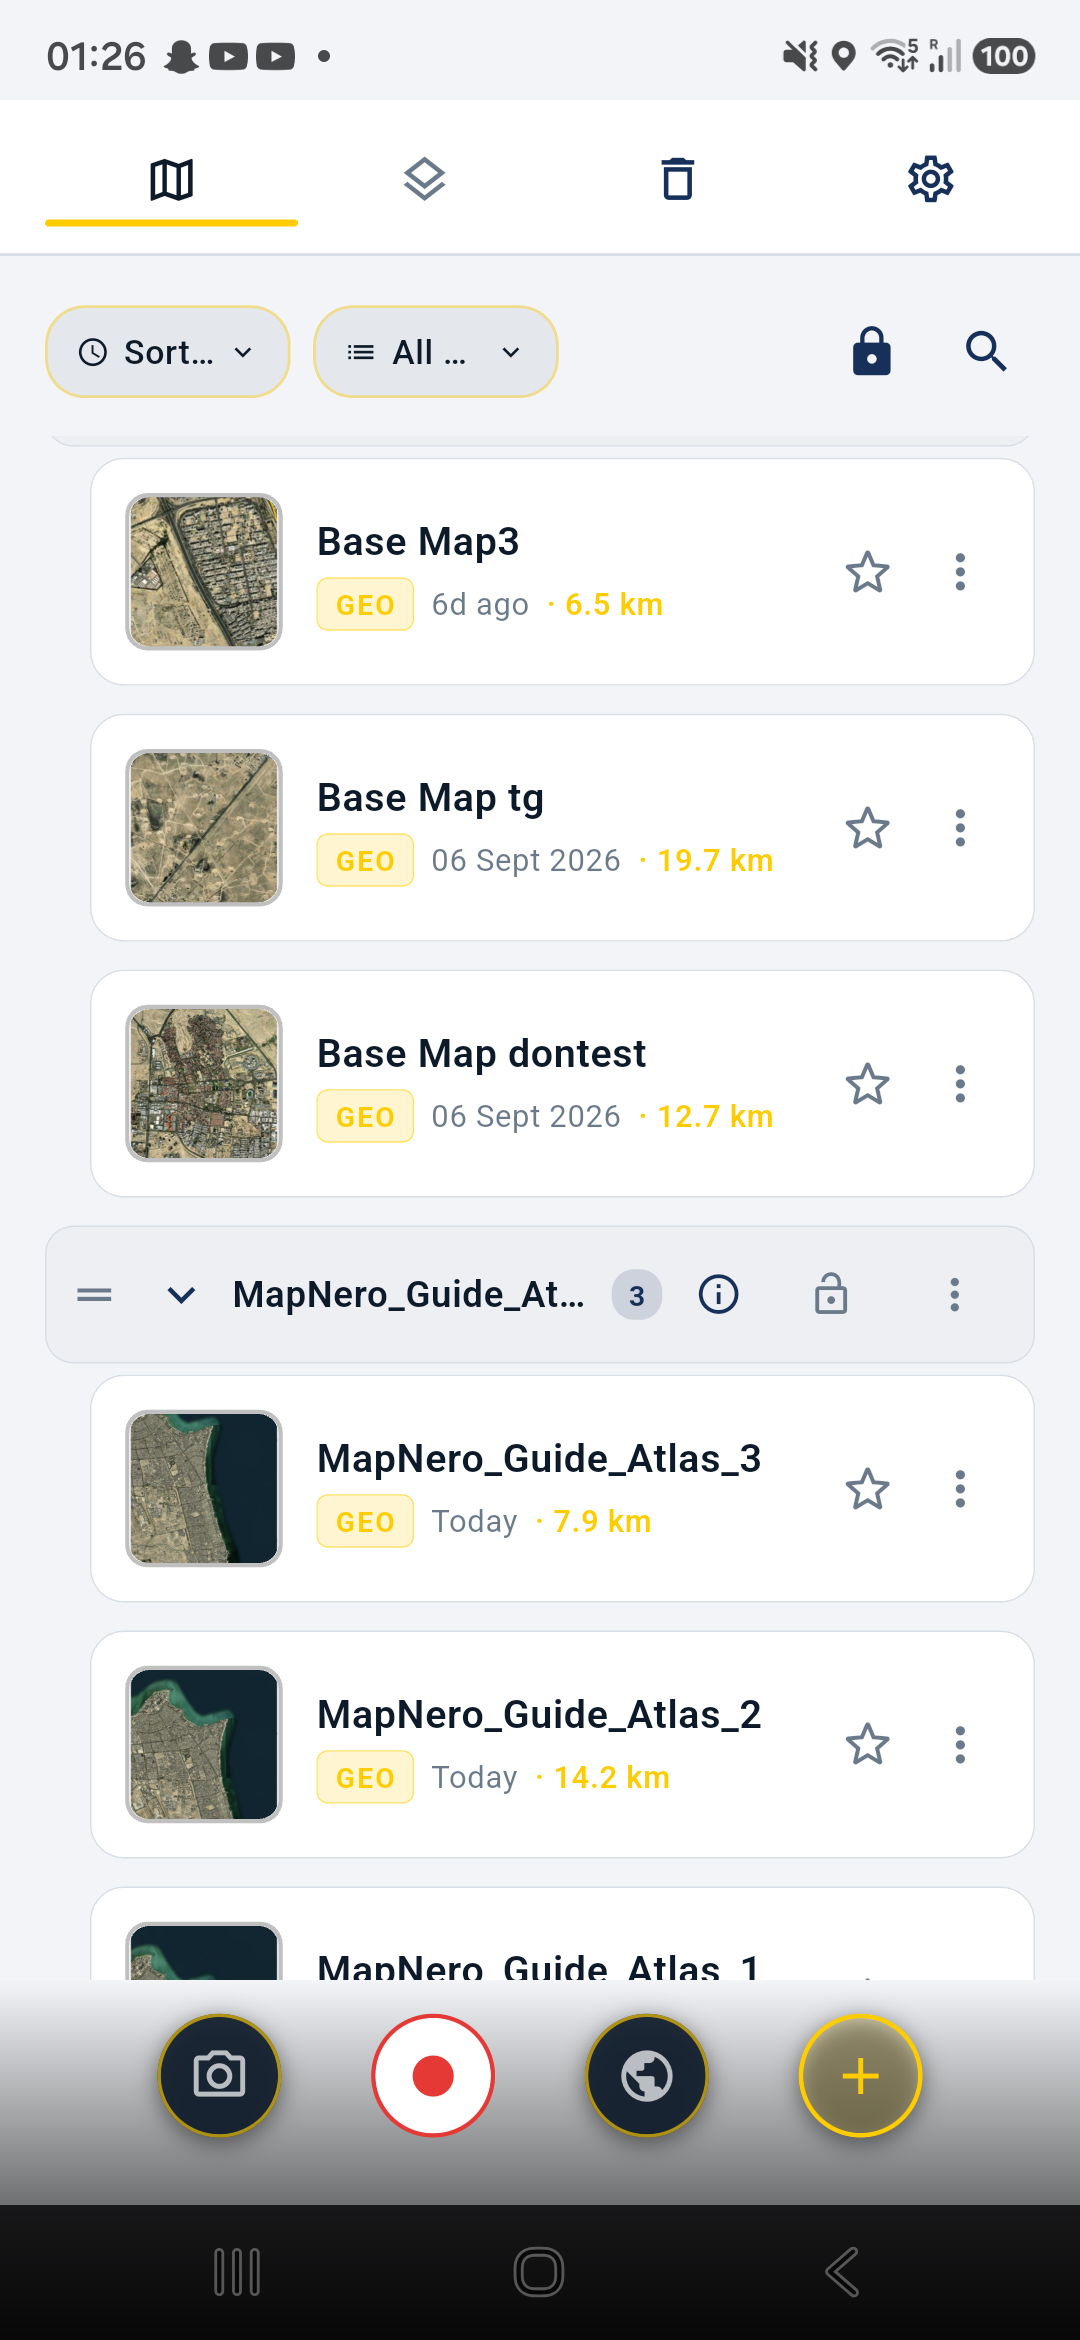
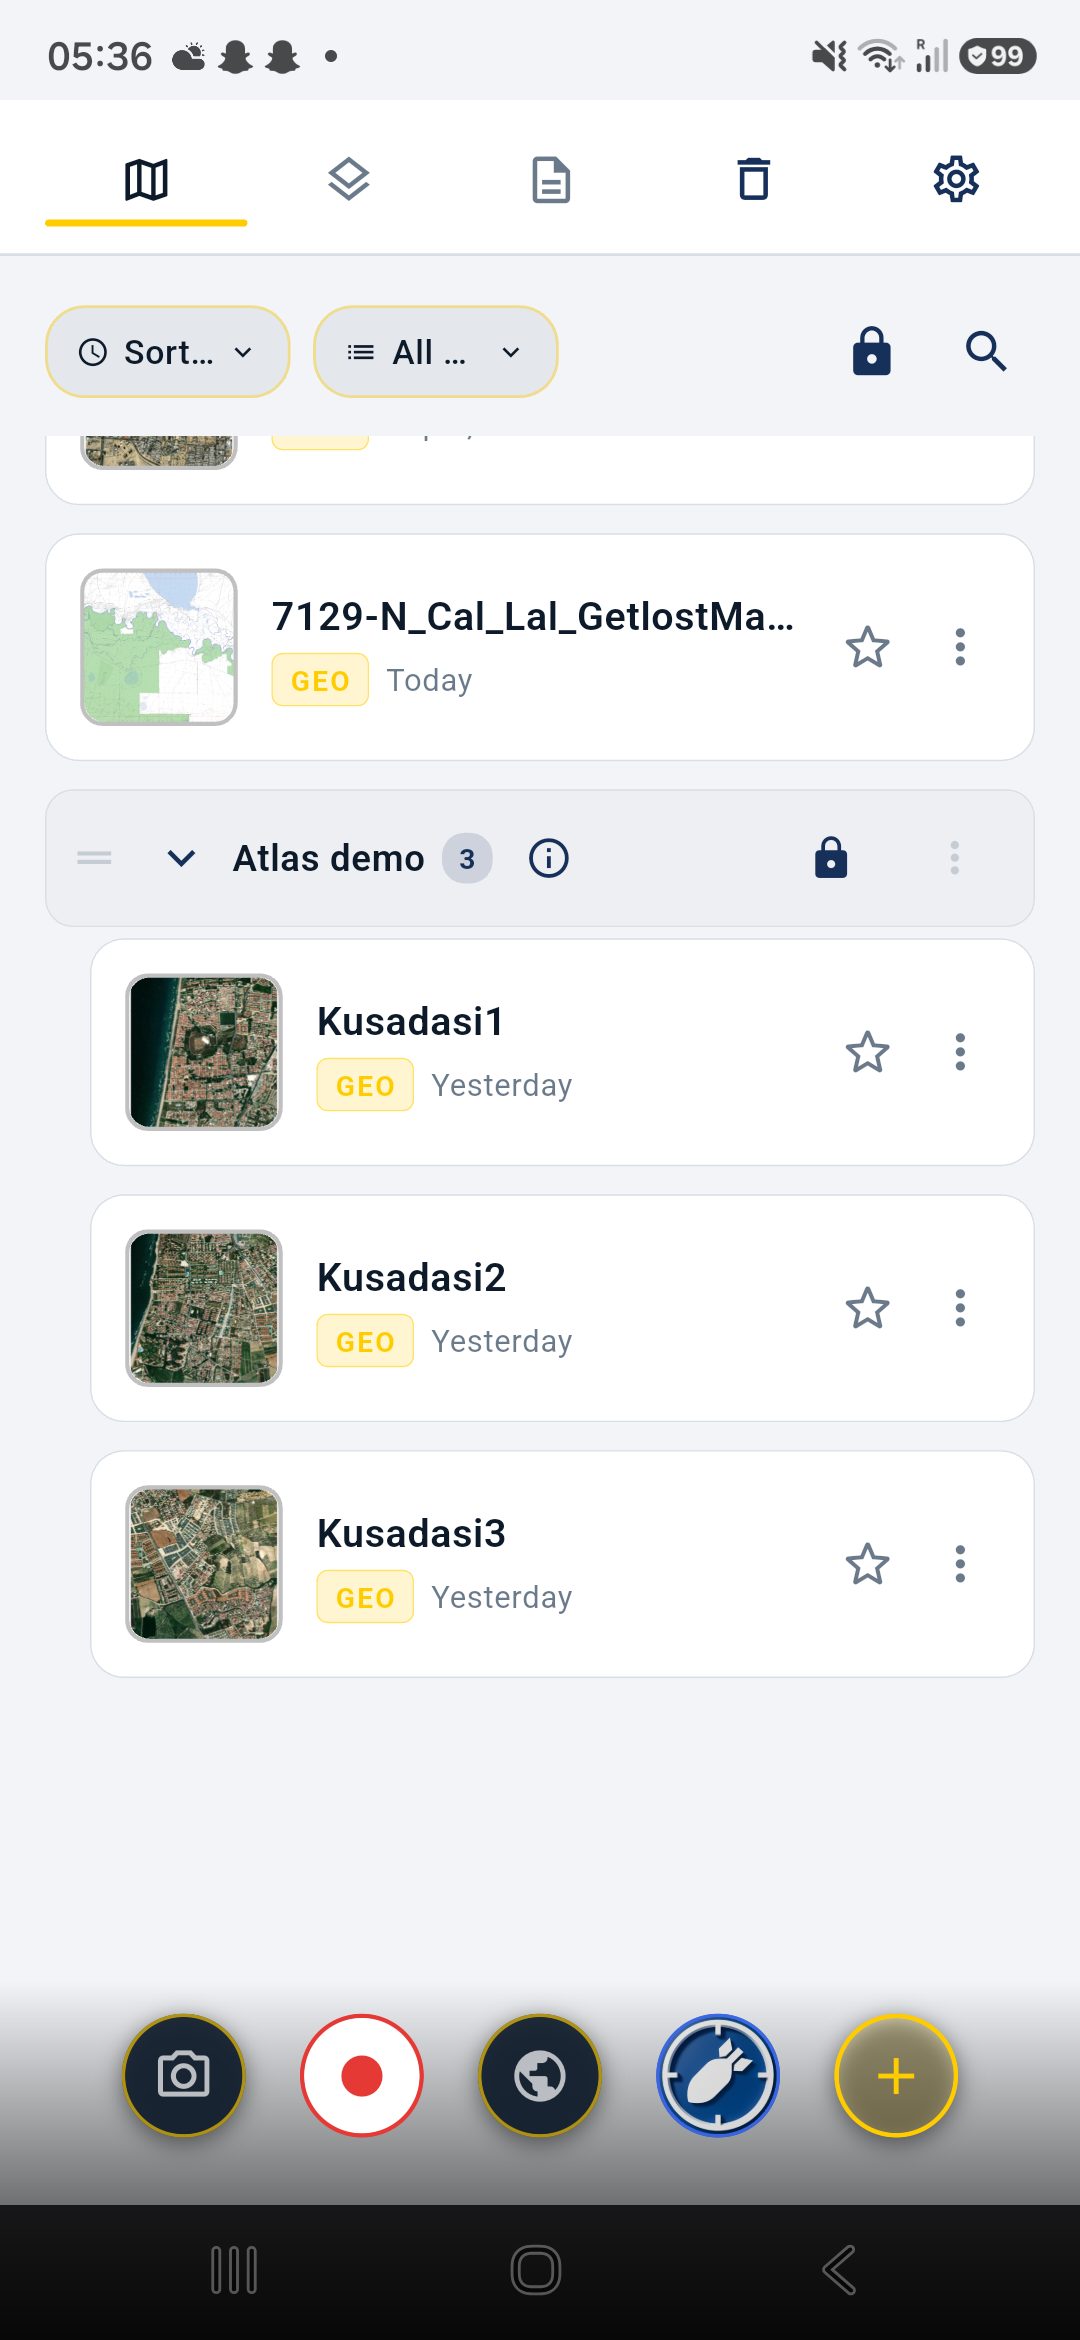
docs(guides): add Android Atlas captures

diff --git a/assets/guides/screenshots/README.md b/assets/guides/screenshots/README.md
@@ -1,5 +1,18 @@
 # Real guide captures
 
+## Android Atlas collections — 2026-09-16
+
+- Added twelve unedited `android/<language>/collections-atlas.png` screenshots
+  from a physical Samsung SM-A175F at 1080 × 2340. Each frame opens the same
+  existing `Atlas demo` collection with its three Kusadasi sheets after the
+  exact in-app language was selected.
+- The collection, its maps and their order were already on the device. No map
+  was added, edited, regrouped, deleted or opened for this capture. Arabic and
+  Urdu are real RTL frames reviewed from the live device UI.
+- The regression test requires twelve distinct full-device images. These
+  frames demonstrate Library collection browsing only; they do not claim GPS
+  auto-switch, offline generation, overlap priority or field acceptance.
+
 ## Android attribute forms — 2026-09-16
 
 - Added twelve unedited `android/<language>/attribute-forms.png` screenshots
